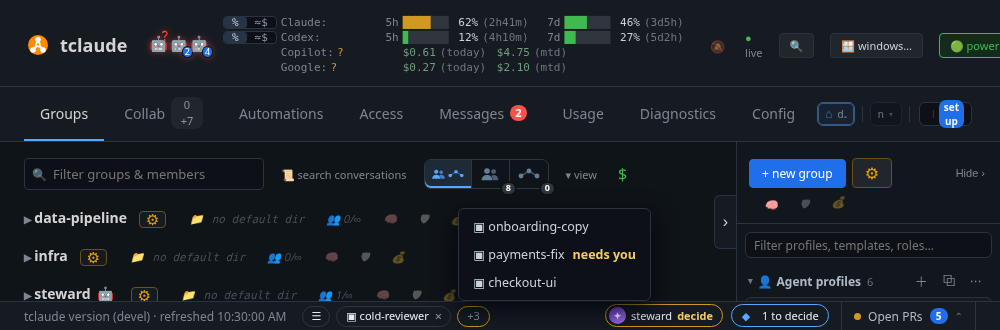
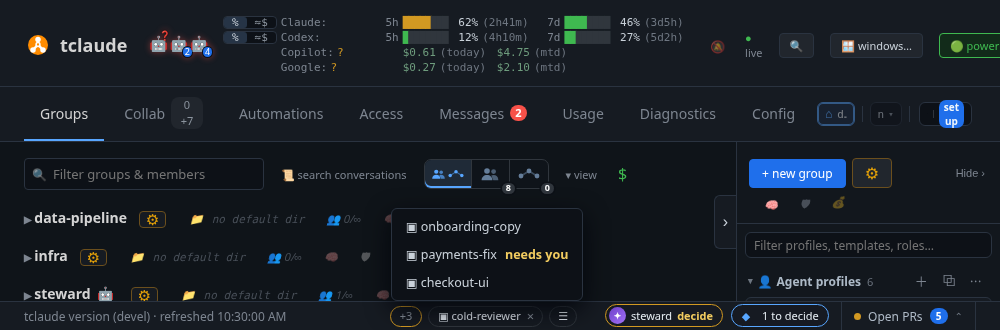
dashboard: the footer dock sits right-aligned beside the Steward chip
Operator change: from the right, Open PRs, the chip, then ☰ and the pills,
which grow to the left with +N at their left end; ☰ stays put. A chip at
footer-right now takes the rightmost free stretch it fits, so it sits beside
Open PRs past the dock, and the dock keeps that room at its right end, unless
not even ☰ would fit beside it. Pills peek from their right edge.

diff --git a/pkg/claude/agentd/dashboard/js/overlay-dock.js b/pkg/claude/agentd/dashboard/js/overlay-dock.js
@@ -1,11 +1,13 @@
 // overlay-dock.js -- the dock of minimized overlay windows: its ☰ menu of
 // actions on every window, and a pill for each window or tab sent to it.
 //
-// It rests in the footer (tcl-9qsgqs), right after the version text, and takes
-// only the room the bar has left: it pushes and covers nothing there, and keeps
-// clear the room of the chips resting beside it (footerChipReserve). Pills that
-// don't fit fold into a "+N" button, and when none fits, into ☰ itself. Either
-// opens a list of them. On a page without the footer it floats over the room.
+// It rests in the footer (tcl-9qsgqs), right-aligned beside the Steward's chips:
+// from the right, Open PRs, the chips, then ☰ and the pills, which grow to the
+// left. It takes only the room the bar has left: it pushes and covers nothing
+// there, and keeps clear the room of the chips (footerChipReserve). Pills that
+// don't fit fold into a "+N" button at their left end, and when none fits, into
+// ☰ itself. Either opens a list of them. On a page without the footer it floats
+// over the room.
 //
 // Its menus render beside it, in the overlay host (OverlayDockPopup): inside the
 // footer they would sit under the overlay windows, the footer's level being theirs.
@@ -144,13 +146,20 @@ export function FooterDock({ snapshot, win }) {
   const root = useRef(null);
   const measure = useRef(null);
   const [shown, setShown] = useState(Infinity);
+  // Whether the chips' room is kept: not when ☰ itself would not fit beside it,
+  // as ☰ never leaves the bar and the chips float then anyway.
+  const [reserving, setReserving] = useState(true);
   const [, setWidth] = useState(0);
-  const reserve = footerChipReserve.value;
+  // Chips resting at footer-right sit between the dock and Open PRs, so the dock
+  // keeps their room at its right end; elsewhere it only leaves them the width.
+  const { width: reserve, spot: chipSpot } = footerChipReserve.value;
   useLayoutEffect(() => {
     const box = root.current?.getBoundingClientRect?.();
     const widths = [...(measure.current?.children || [])].map((node) => node.getBoundingClientRect().width);
     // Unlaid out, as under test: everything shows.
-    const next = !box?.width || !widths.length ? Infinity : fitDockPills({ budget: box.width - reserve, menu: widths[0], more: widths[1], pills: widths.slice(2) });
+    const keep = !box?.width || !widths.length || box.width - reserve >= widths[0];
+    if (keep !== reserving) setReserving(keep);
+    const next = !box?.width || !widths.length ? Infinity : fitDockPills({ budget: box.width - (keep ? reserve : 0), menu: widths[0], more: widths[1], pills: widths.slice(2) });
     const fitted = next >= entries.length ? Infinity : next;
     if (fitted !== shown) setShown(fitted);
     dockShown.value = fitted;
@@ -166,7 +175,8 @@ export function FooterDock({ snapshot, win }) {
   const visible = entries.slice(0, shown);
   const hidden = entries.slice(visible.length);
   const folded = visible.length ? [] : hidden;
-  return html`<div ref=${root} class="overlay-dock in-footer" role="group" aria-label="Minimized windows">
+  return html`<div ref=${root} class="overlay-dock in-footer" role="group" aria-label="Minimized windows"
+    style=${chipSpot === 'footer-right' && reserve && reserving ? `padding-right:${reserve}px` : null}>
     ${(entries.length > 0 || actions.length > 0) && html`<${DockMenuButton} folded=${folded} needs=${needs} />`}
     ${visible.map((entry) => html`<${DockPill} key=${entry.key} entry=${entry} needs=${needs} onChip=${onChip} />`)}
     ${visible.length > 0 && hidden.length > 0 && html`<${DockMoreButton} hidden=${hidden} needs=${needs} />`}

diff --git a/pkg/claude/agentd/dashboard/js/companion-chip-footer.js b/pkg/claude/agentd/dashboard/js/companion-chip-footer.js
@@ -4,7 +4,7 @@
 // covers nothing and pushes nothing.
 import { useEffect, useLayoutEffect, useRef, useState } from 'preact/hooks';
 import { signal } from '@preact/signals';
-import { FOOTER_CHIP_MARGIN, footerSpotFits, freeStretch } from './companion-model.js';
+import { FOOTER_CHIP_MARGIN, footerRoom, footerSpotFits, freeStretch } from './companion-model.js';
 
 const COMPACT = 'compact';
 
@@ -16,9 +16,10 @@ const COMPACT = 'compact';
 const POPOVER = '.open-prs-popover, .overlay-dock-measure';
 
 // footerChipReserve is the room the chips take in the footer while they rest
-// there, margins included. The overlay dock beside them in the bar keeps it free,
-// so its pills give way before the chips have to float.
-export const footerChipReserve = signal(0);
+// there, margins included, and the spot they rest at: { width, spot }. The
+// overlay dock beside them in the bar keeps it free, so its pills give way
+// before the chips have to float.
+export const footerChipReserve = signal({ width: 0, spot: '' });
 
 export const chipReserve = (width) => (width > 0 ? width + 2 * FOOTER_CHIP_MARGIN : 0);
 
@@ -34,14 +35,16 @@ function occupied(bar, doc) {
   return rects.filter((rect) => rect.width > 0);
 }
 
-// measureFooterRoom is the footer's widest free stretch, { left, right }, or null
+// measureFooterRoom is the footer's free stretch, { left, right }, that a row
+// width wide rests in at spot (footerRoom), or with neither given its widest; null
 // on a page without one.
-export function measureFooterRoom(win) {
+export function measureFooterRoom(win, spot = '', width = 0) {
   const doc = win?.document;
   const bar = doc?.querySelector?.('footer .footer-inner');
   const box = bar?.getBoundingClientRect?.();
   if (!box?.width) return null;
-  return freeStretch(occupied(bar, doc), box.left, box.right);
+  const rects = occupied(bar, doc);
+  return spot ? footerRoom(rects, box.left, box.right, spot, width) : freeStretch(rects, box.left, box.right);
 }
 
 // compactWidth is how wide the row is in the bar, wherever it is now. It takes
@@ -58,13 +61,13 @@ export function compactWidth(node) {
 // watches the bar and the row for as long as one is. It returns { room, fits,
 // width }, measured before the row paints, and measure, for a row about to land
 // there.
-export function useFooterRest({ win, watching, row }) {
+export function useFooterRest({ win, watching, row, spot }) {
   const [rest, setRest] = useState({ room: null, width: 0 });
   const measure = useRef(() => {});
   measure.current = () => {
     const node = row.current;
-    const room = measureFooterRoom(win);
     const width = node ? compactWidth(node) : 0;
+    const room = measureFooterRoom(win, spot, width);
     setRest((now) => (now.width === width && now.room?.left === room?.left && now.room?.right === room?.right ? now : { room, width }));
   };
   // Every render: what the row holds changes with it.

diff --git a/pkg/claude/agentd/dashboard/js/companion-island.js b/pkg/claude/agentd/dashboard/js/companion-island.js
@@ -556,9 +556,8 @@ export function CompanionApp({
     peek: (agentId, element) => peekRef.current?.(agentId, element),
     endPeek: () => stopPeek(),
   }), [showAgent]);
-  // A pill in the footer peeks upwards from its left edge, as the dock floating
-  // over the room peeks from its right.
-  peekRef.current = (agentId, element) => { if (agents.has(agentId)) startPeek(agentId, element, element?.closest?.('footer') ? 'footer-left' : DEFAULT_ROOM_CHIP_SPOT); };
+  // A pill peeks upwards from its right edge, in the footer as over the room.
+  peekRef.current = (agentId, element) => { if (agents.has(agentId)) startPeek(agentId, element, element?.closest?.('footer') ? 'footer-right' : DEFAULT_ROOM_CHIP_SPOT); };
 
   // A shut-down Steward can come back without this window: from the Agents tab,
   // the CLI, or by the seat going to another agent. Then there is nothing left
@@ -733,7 +732,7 @@ export function CompanionApp({
 
   // A row saved in the footer rests at its last spot in the room when it doesn't fit.
   const chipRow = useRef(null);
-  const footerRest = useFooterRest({ win, watching: isFooterSpot(chipSpot) && !stewardShown, row: chipRow });
+  const footerRest = useFooterRest({ win, watching: isFooterSpot(chipSpot) && !stewardShown, row: chipRow, spot: chipSpot });
   const restSpot = () => { const spot = parseChipSpot(readPref(prefs, COMPANION_CHIP_ROOM_SPOT_PREF)); return isFooterSpot(spot) ? DEFAULT_ROOM_CHIP_SPOT : spot; };
   const shownSpot = isFooterSpot(chipSpot) && !footerRest.fits ? restSpot() : chipSpot;
   const inFooter = isFooterSpot(shownSpot);
@@ -741,13 +740,13 @@ export function CompanionApp({
   // the overlay dock gives way first.
   const reserve = isFooterSpot(chipSpot) && !stewardShown ? chipReserve(footerRest.width) : 0;
   useEffect(() => {
-    footerChipReserve.value = reserve;
-  }, [reserve]);
-  useEffect(() => () => { footerChipReserve.value = 0; }, []);
+    footerChipReserve.value = { width: reserve, spot: reserve ? chipSpot : '' };
+  }, [reserve, chipSpot]);
+  useEffect(() => () => { footerChipReserve.value = { width: 0, spot: '' }; }, []);
   const footerSlots = (node) => {
-    const room = measureFooterRoom(win);
     const width = compactWidth(node);
-    return footerSpotFits(room, width) ? FOOTER_CHIP_SPOTS.map((spot) => ({ spot, left: footerSpotLeft(spot, room, width), width })) : [];
+    return FOOTER_CHIP_SPOTS.map((spot) => ({ spot, room: measureFooterRoom(win, spot, width) }))
+      .filter(({ room }) => footerSpotFits(room, width)).map(({ spot, room }) => ({ spot, left: footerSpotLeft(spot, room, width), width }));
   };
   const chipDrag = useChipDrag({ win, spot: shownSpot, row: chipRow, extraSlots: footerSlots, onDrop: moveChips, onStart: stopPeek, reducedMotion: () => reducedMotion(win) });
 

diff --git a/pkg/claude/agentd/dashboard/js/companion-model.js b/pkg/claude/agentd/dashboard/js/companion-model.js
@@ -255,17 +255,38 @@ export const lastRoomSpot = (next, shown) => [next, shown].find((spot) => !isFoo
 // The space a row keeps from what else is in the footer.
 export const FOOTER_CHIP_MARGIN = 12;
 
-// freeStretch is the widest stretch between left and right that no rect covers.
-export function freeStretch(rects, left, right) {
-  let best = null;
+// freeStretches is every stretch between left and right that no rect covers,
+// from the left.
+export function freeStretches(rects, left, right) {
+  const out = [];
   let from = left;
-  const keep = (to) => { if (to > from && (!best || to - from > best.right - best.left)) best = { left: from, right: to }; };
+  const keep = (to) => { if (to > from) out.push({ left: from, right: to }); };
   for (const rect of [...rects].sort((a, b) => a.left - b.left)) {
     keep(Math.min(rect.left, right));
     from = Math.max(from, rect.right);
   }
   keep(right);
-  return best;
+  return out;
+}
+
+const widest = (stretches) => stretches.reduce((best, stretch) => (!best || stretch.right - stretch.left > best.right - best.left ? stretch : best), null);
+
+// freeStretch is the widest stretch between left and right that no rect covers.
+export function freeStretch(rects, left, right) {
+  return widest(freeStretches(rects, left, right));
+}
+
+// footerRoom is the stretch a row width wide rests in at a footer spot: of the
+// stretches it fits, the one furthest right for footer-right, so it sits right
+// beside Open PRs whatever is left of it, the one furthest left for footer-left,
+// and the widest otherwise. With none it fits, the widest, which it doesn't.
+export function footerRoom(rects, left, right, spot, width) {
+  const all = freeStretches(rects, left, right);
+  const fitting = all.filter((stretch) => footerSpotFits(stretch, width));
+  if (!fitting.length) return widest(all);
+  if (spot === 'footer-right') return fitting[fitting.length - 1];
+  if (spot === 'footer-left') return fitting[0];
+  return widest(fitting);
 }
 
 export function footerSpotFits(room, width) {

diff --git a/pkg/claude/agentd/dashboard/dashboard.css b/pkg/claude/agentd/dashboard/dashboard.css
@@ -2066,10 +2066,12 @@ header.overlay-look-windows { padding-right: 0; }
 body:is(:has(.modal-overlay.show, .manage-overlay.show), .companion-annotating) :is(.overlay-split-line, .overlay-split-cross, .overlay-split-detach, .overlay-split-gap) { display: none; }
 /* The overlay windows' dock (overlay-dock.js). It rests in the footer, in the
    room the bar has left: it grows into none and is clipped rather than push the
-   Open PRs trigger. Its pills are the bar's height, as the chips beside it are. */
+   Open PRs trigger. It is right-aligned, ☰ last beside the chips, and the pills
+   run to its left, so ☰ stays put as they come and go. Its pills are the bar's
+   height, as the chips beside it are. */
 .footer-dock-root { display: flex; flex: 1 1 0; min-width: 0; align-self: stretch; align-items: center; }
 .overlay-dock { display: flex; align-items: center; gap: 6px; }
-.overlay-dock.in-footer { flex: 1 1 0; min-width: 0; overflow: hidden; }
+.overlay-dock.in-footer { flex: 1 1 0; flex-direction: row-reverse; min-width: 0; box-sizing: border-box; overflow: hidden; }
 /* Off screen, the pills at their full width, for the dock to measure. */
 .overlay-dock.overlay-dock-measure { position: fixed; left: -10000px; top: 0; visibility: hidden; pointer-events: none; }
 /* Without the footer (a page that has none), the dock floats over the room,

diff --git a/docs/companion.md b/docs/companion.md
@@ -190,18 +190,18 @@ While any window is open, the dock shows its ☰ menu even with nothing minimize
 
 ### The dock
 
-The dock rests in the footer, after the version text: ☰ first, then a pill for each
-minimized window or tab. It takes only the room the footer has left beside the
-Steward's pill and **Open PRs**, and never covers or pushes them. When the pills don't
-all fit, the ones that don't fold into a **+N** button, which lists them; it takes an
-amber edge when one of them needs you. With no room even for one pill beside **+N**,
+The dock rests at the right of the footer. From the right: **Open PRs**, the Steward's
+pill, then ☰, with a pill for each minimized window or tab to its left. It takes only
+the room the footer has left, and never covers or pushes the other controls. When the
+pills don't all fit, the ones that don't fold into a **+N** button at their left end,
+which lists them; it takes an amber edge when one of them needs you. With no room even for one pill beside **+N**,
 they fold into ☰ itself, which then shows how many and lists them under its actions.
 Only after that, with no room left at all, does the Steward's pill leave the footer.
 On a phone the footer drops the version text and keeps the refresh time and ☰, with
 the Steward's pill beside them when it fits. The dock's menus open upwards, above any
 overlay window.
 
-![The footer at 1000 pixels wide: the version text, ☰, one minimized chat and a +3 button whose list is open above it, then the Steward's pill and Open PRs](assets/companion-footer-dock.png)
+![The footer at 1000 pixels wide: the version text on the left; on the right a +3 button whose list is open above it, one minimized chat, ☰, the Steward's pill and Open PRs](assets/companion-footer-dock.png)
 
 A tab's × minimizes that tab to the dock and stops nothing, and so does `Minimize tab` on its
 menu, beside `Minimize other tabs` and `Minimize all tabs`. These never ask, even for a Steward,
